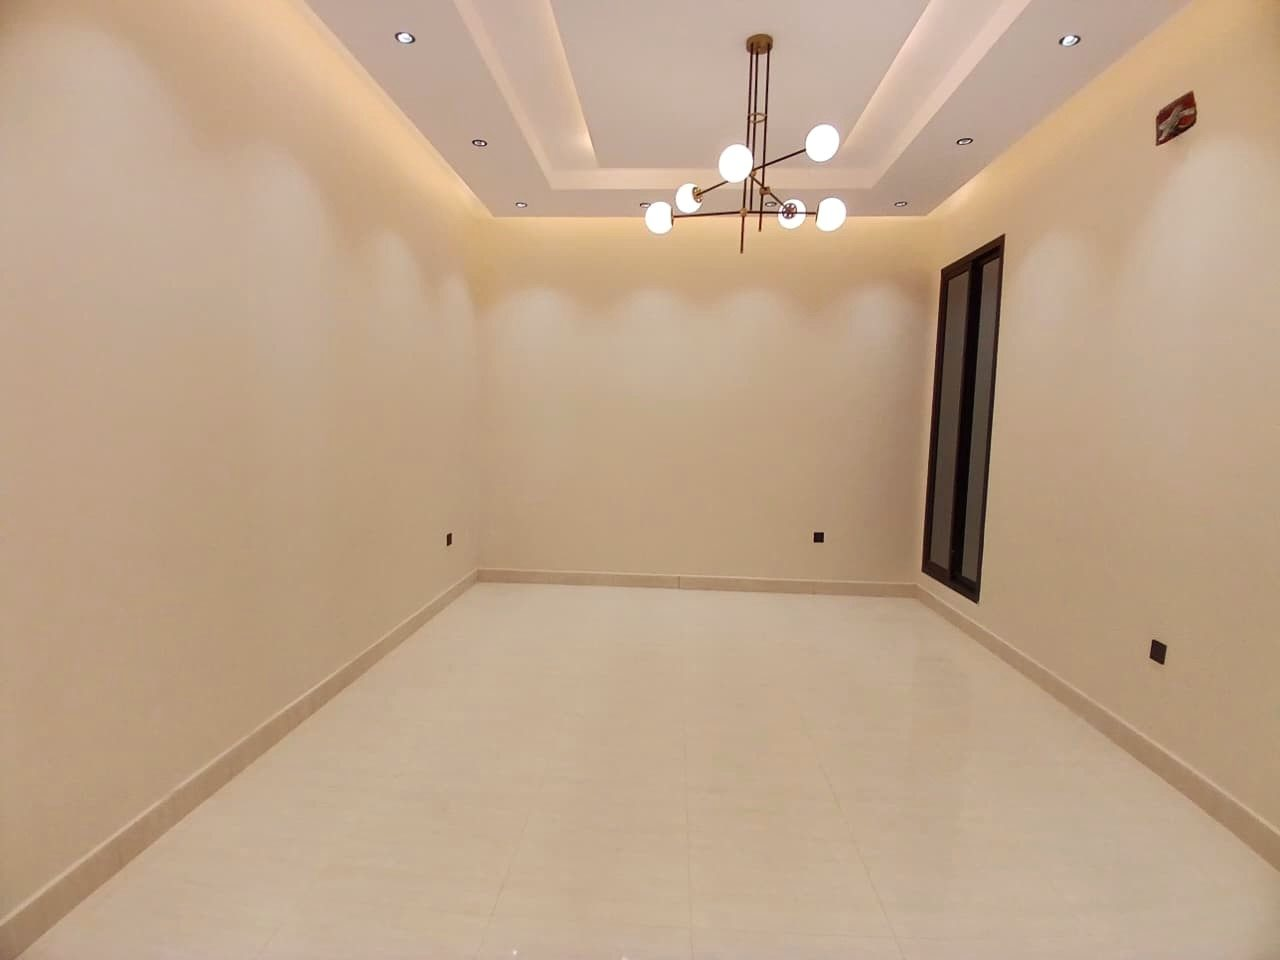
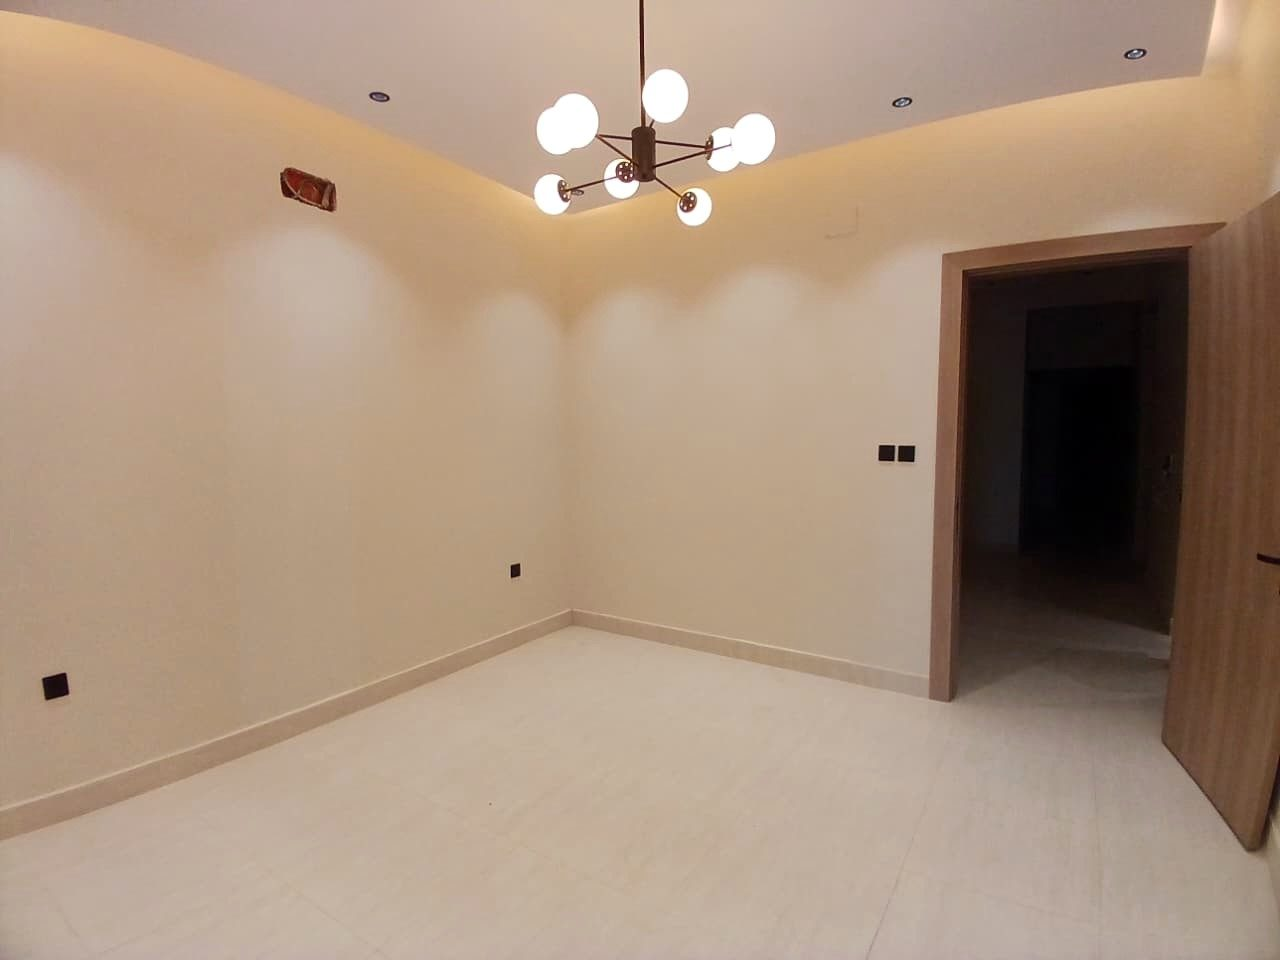
RT-001: use exactly the four original site photos (carousel 01, 02, 04, 05)
photo-1..4 = carousel/01, 02, 04, 05 (01 cover). Remove photo-5/6. No carousel 03/06/07.

diff --git a/docs/batches/units-6-10-2026-11-14.md b/docs/batches/units-6-10-2026-11-14.md
@@ -108,16 +108,16 @@ Guard: `scripts/units-lib.mjs` → `licencePending(unit)` = `status !== 'draft' 
 
 Source: `/workspace/remal-units/publish-batch-old-units-2026-11-14/site-units.md` JSON blocks (numbers checked against REGA licences on 14 Nov), used verbatim except `updated: 2026-11-14` and `media`. Each keeps `ad_license_expiry: "2027-04-15"`, `ad_license_qr: ""`, and the proposed extra fields `ad_license_advertiser` («مكتب الرمال تيم العقارية»), `fal_license` (1200048445) and `ad_license_verify_url`. **No advertiser/FAL/licence/WhatsApp lines in `features`** (the new licence block is meant to render them); «المعاينة مجانية» kept. No QR, CR number, REGA logo, bank names or rates. Corrected vs old site files: RT-001 204.83 m² حي شمال التضامن (was «مودرن» 205); RT-002 شقة دور علوي مع ملحق 337.2 (was «روف مودرن» 340); RT-003 202.04 حي الزهور (was «بجوار حديقة المليون» 204); RT-004 160.01 حي الزهور (was «شقق» المحالة 149 — README flags ⚠ manager to confirm this licence is the same flat); RT-005 375.82 حي النور (was «روف» شارع الثمانين 376).
 
-Photos: same convention as 6–10 (JPEG q82, ≤1280 px, EXIF/GPS/ICC stripped, photo-1 = cover). Old `photo-1…4` are overwritten; every unit now has ≥5 so no stale files remain. RT-001: the prayer-rug photo (carousel/03) is gone and `photo-3` = `carousel/05`; also dropped carousel/02 (boxes/items on the entrance floor) and carousel/06 (mirror shows a person), added two clean originals. Mirror/vanity shots excluded in all units.
+Photos: same convention as 6–10 (JPEG q82, ≤1280 px, EXIF/GPS/ICC stripped, photo-1 = cover). Old `photo-1…4` are overwritten; every unit now has ≥5 so no stale files remain. RT-001: see correction below (4 original site photos). Mirror/vanity shots excluded in all units.
 
-### RT-001 — unit 1 (7201191119) — 6 photos
+### RT-001 — unit 1 (7201191119) — 4 photos
 
 - `photo-1.jpg` 960×1280 ← `ready/unit-1/carousel/01.jpg`
-- `photo-2.jpg` 960×1280 ← `ready/unit-1/WhatsApp Image 2026-10-28 at 10.28.07 AM.jpeg`
-- `photo-3.jpg` 1280×960 ← `ready/unit-1/carousel/05.jpg`
-- `photo-4.jpg` 1280×960 ← `ready/unit-1/carousel/04.jpg`
-- `photo-5.jpg` 960×1280 ← `ready/unit-1/carousel/08.jpg`
-- `photo-6.jpg` 1280×960 ← `ready/unit-1/WhatsApp Image 2026-10-28 at 10.27.59 AM.jpeg`
+- `photo-2.jpg` 1280×960 ← `ready/unit-1/carousel/02.jpg`
+- `photo-3.jpg` 1280×960 ← `ready/unit-1/carousel/04.jpg`
+- `photo-4.jpg` 1280×960 ← `ready/unit-1/carousel/05.jpg`
+
+RT-001 correction (2026-11-14 ~17:05 Cairo): exactly the four original site photos `carousel/01, 02, 04, 05` as photo-1…4 (01 = cover). carousel/03 and 06 (prayer rug) and 07 (toilet) are not used; the two extra originals added earlier and photo-5/6 are removed.
 
 ### RT-002 — unit 2 (7201191103) — 7 photos
 
